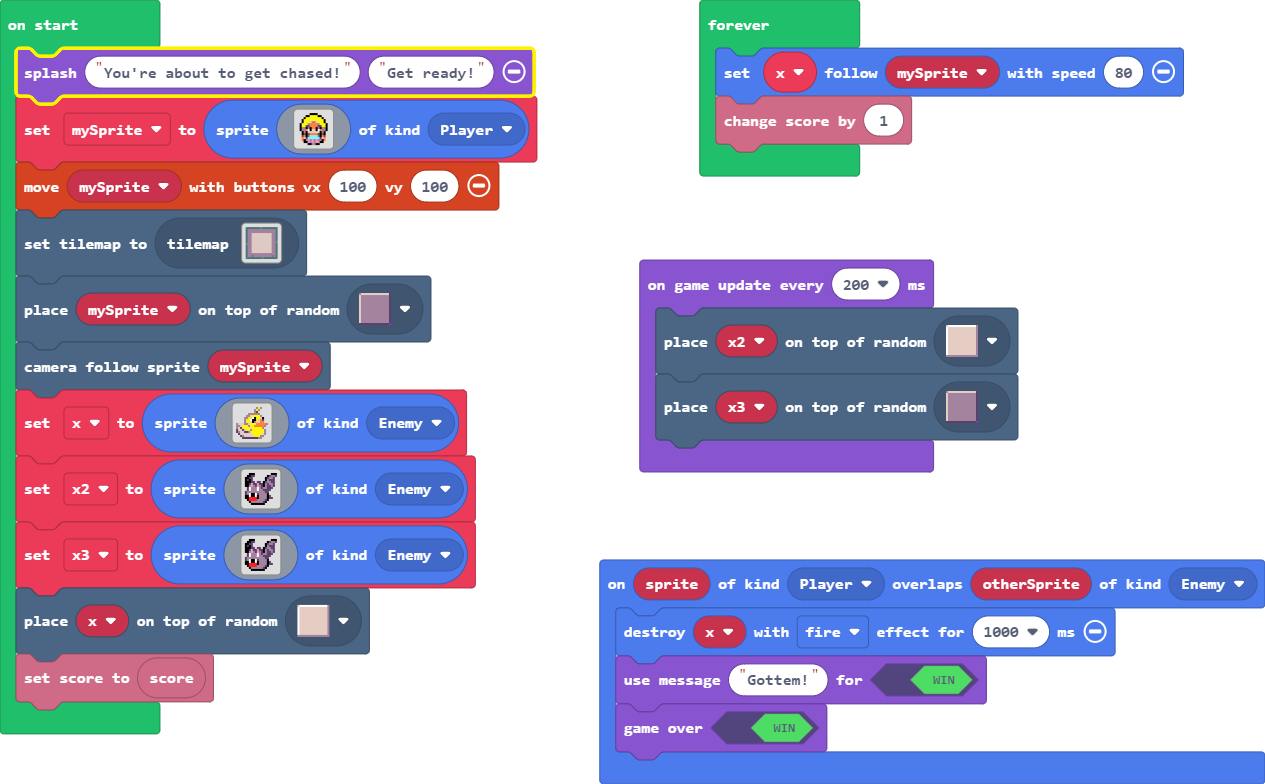
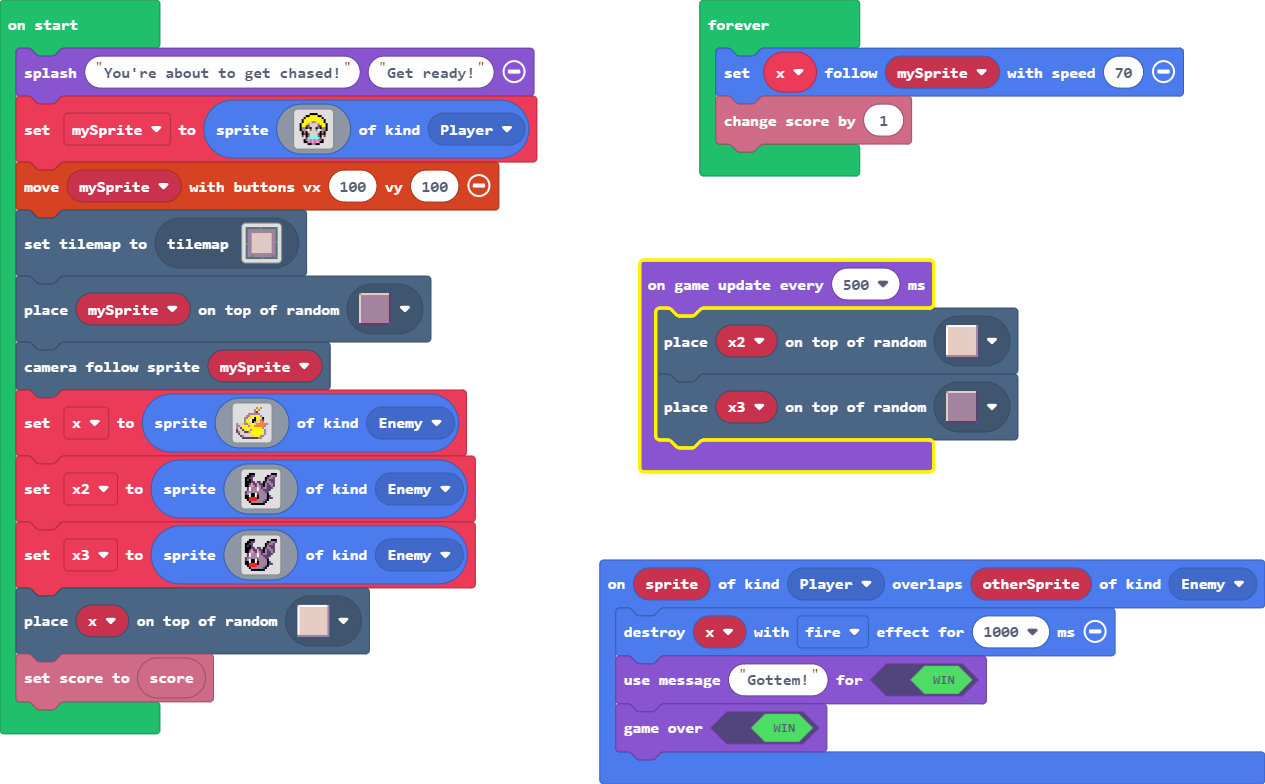
Sprite change

diff --git a/main.ts b/main.ts
@@ -11,15 +11,15 @@ let mySprite = sprites.create(img`
     . . f 5 5 5 5 5 5 5 5 f . . 
     . f 5 5 5 5 5 5 5 5 5 5 f . 
     . f 5 5 5 d b b d 5 5 5 f . 
-    f 5 5 5 b 4 4 4 4 b 5 5 5 f 
-    f 5 5 c c 4 4 4 4 c c 5 5 f 
-    f b b f b f 4 4 f b f b b f 
-    f b b 4 1 f d d f 1 4 b b f 
+    f 5 5 5 b d d d d b 5 5 5 f 
+    f 5 5 c c d d d d c c 5 5 f 
+    f b b f b f d d f b f b b f 
+    f b b d 1 6 d d 6 1 d b b f 
     . f b f d d d d d d f b f . 
-    . f e f e 4 4 4 4 e f e f . 
-    . e 4 f 6 9 9 9 9 6 f 4 e . 
-    . 4 d c 9 9 9 9 9 9 c d 4 . 
-    . 4 f b 3 b 3 b 3 b b f 4 . 
+    . f e f e d d d d e f e f . 
+    . e d f 6 9 9 9 9 6 f d e . 
+    . d d c 9 9 9 9 9 9 c d d . 
+    . d f b 3 b 3 b 3 b b f d . 
     . . f f 3 b 3 b 3 3 f f . . 
     . . . . f f b b f f . . . . 
     `, SpriteKind.Player)
@@ -84,10 +84,10 @@ let x3 = sprites.create(img`
 tiles.placeOnRandomTile(x, sprites.dungeon.floorLight2)
 info.setScore(info.score())
 forever(function () {
-    x.follow(mySprite, 80)
+    x.follow(mySprite, 70)
     info.changeScoreBy(1)
 })
-game.onUpdateInterval(200, function () {
+game.onUpdateInterval(500, function () {
     tiles.placeOnRandomTile(x2, sprites.dungeon.floorLight2)
     tiles.placeOnRandomTile(x3, sprites.dungeon.floorDark2)
 })
